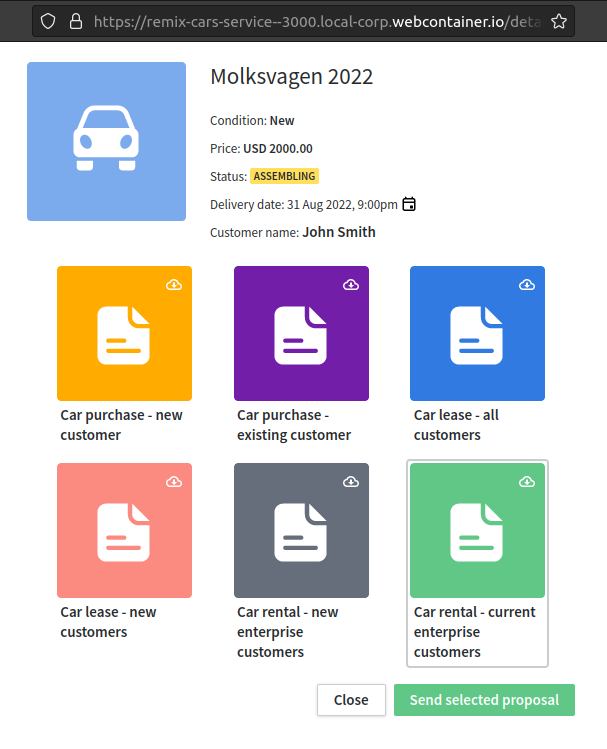
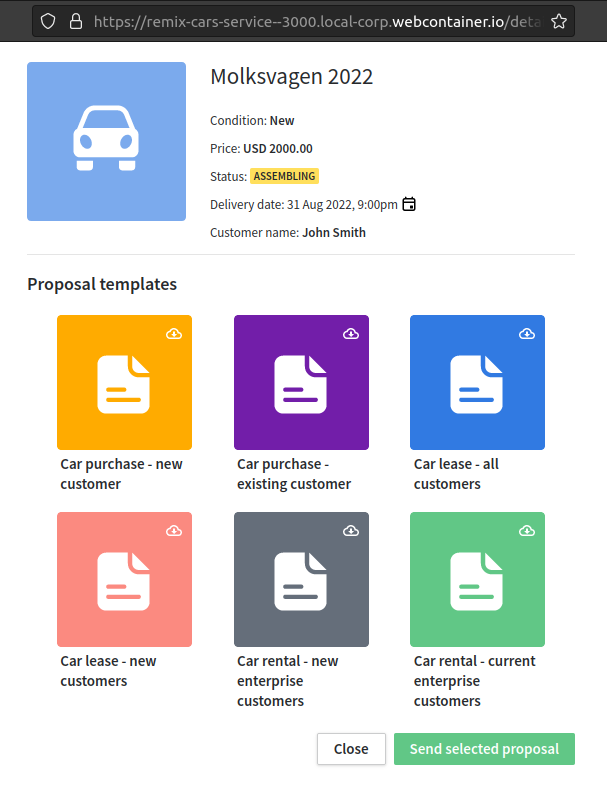
Update selected proposal view

diff --git a/apps/remix-cars-service/app/components/details/item-proposal.jsx b/apps/remix-cars-service/app/components/details/item-proposal.jsx
@@ -17,19 +17,11 @@ export default function ItemProposal({ proposal, onEdit }) {
 
 	return (
 		(
-			<div className='row'>
+			<div className='font-size--s'>
 				<div className="label">
-					<DocumentIcon/>
-				</div>
-
-				<div className="main">
-					<div className="label">
-						{data.title}
-					</div>
-				</div>
-
-				<div className="row-action">
-					<Button size="s" onClick={onEdit}>
+					Proposal:&nbsp;<strong>{data.title}</strong>
+					&nbsp;
+					<Button size="s" variant="ghost-alternative" onClick={onEdit}>
 						<PencilIcon/>
 					</Button>
 				</div>

diff --git a/apps/remix-cars-service/app/components/details/proposals.jsx b/apps/remix-cars-service/app/components/details/proposals.jsx
@@ -33,6 +33,12 @@ export default function Proposals({ item, onItemUpdate }) {
 
 	return (
 		<>
+			<div className="cui5-separator cui5-separator--type-line">
+				<div className="cui5-separator__label"/>
+			</div>
+
+			<h3 className="cui5-spacing cui5-spacing--top-s">Proposal templates</h3>
+
 			<div className="proposals">
 				{proposals.map(({ id, title, color }) =>
 					<Proposal
